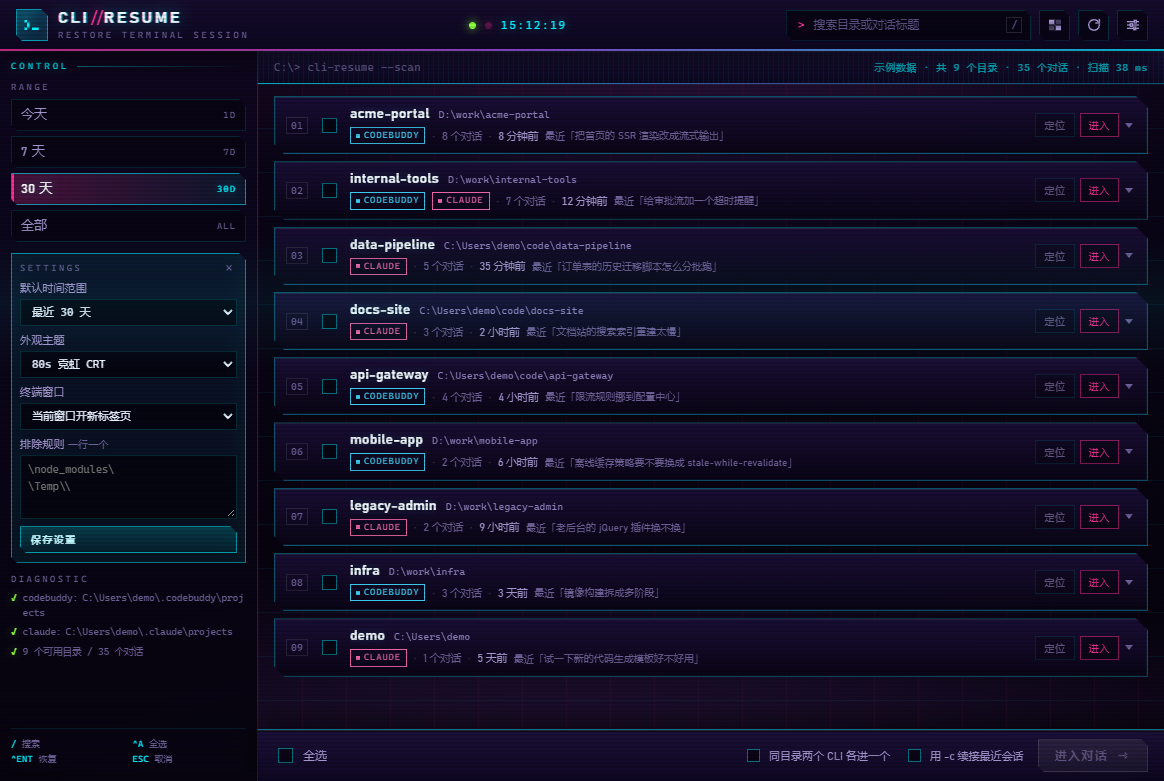
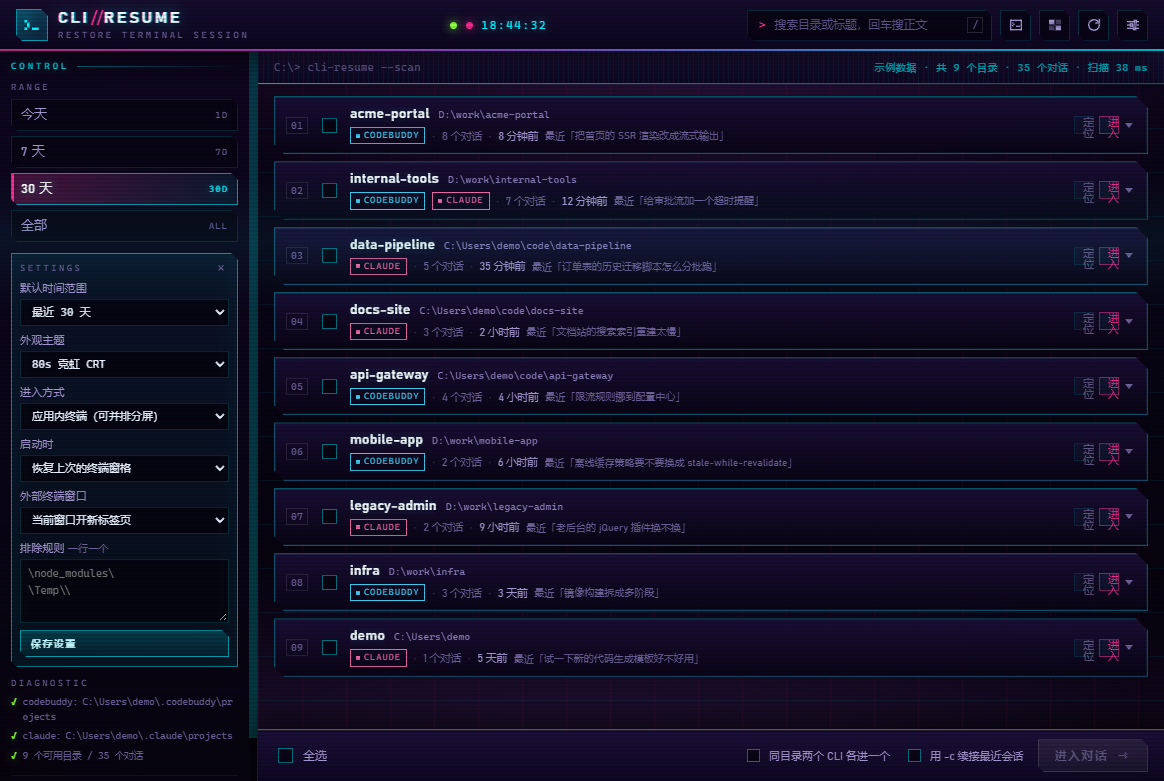
feat(desktop): 记住终端布局，下次启动原样铺回来并自动 --resume
开着的窗格、各自的目录、面板高度、当前标签，都存在 layout.json，
启动时照单铺开。这样「重启电脑后把现场拉回来」在桌面端才闭环 ——
之前只有 CLI 版能做到，桌面端每次都得重新点一遍。

存的是「怎么起来」而不是会话状态
- panes[i] = { cwd, cmd, title, tool, sessionId }，cmd 里已经编码了
  claude --resume xxx / codebuddy --resume xxx / 开了 useContinue 的裸 claude /
  手开的空 shell 四种情况，恢复逻辑不用分叉
- 端点：GET/POST /api/layout。单独一个文件，不塞 settings.json ——
  每开一个窗格就要写一次，和「用户点保存」才变的设置不是一回事

两个刻意的取舍
- 上次是收起状态就不恢复：掀起来只会得到几个看不见的 CLI 进程，
  用户既没看见也没法操作，白占内存
- 恢复期间不写盘（TM.restoring）：termAddPane 每加一个窗格都会触发保存，
  那时 panes 还不齐，写下去会把布局截断成「只剩一个」

其余
- 前端写盘 350ms 防抖，开/关窗格、切标签、拖完高度、收起/展开都会触发
- 高度按视口 70% 夹一下，换小屏不会把上面的列表挤没
- 左栏新增「启动时：恢复上次的终端窗格 / 不恢复」，默认开启，落在 settings.json
- 重截两套皮肤的设置面板图（多了一个下拉）

验证：两个 echo 窗格 → 杀掉重启 → 两个窗格连同输出、当前标签、高度都回来了；
真实 claude 会话 → 重启 → 终端里直接是那个会话的历史（不用点任何地方）；
visible=false 与 restoreLayout=false 两种情况下都确认不会拉起进程。

diff --git a/desktop/web/app.js b/desktop/web/app.js
@@ -24,6 +24,8 @@ const S = {
     useContinue: false,
     window: 0,
     theme: 'neon',
+    termMode: 'embedded',
+    restoreLayout: true,
     exclude: [],
   },
   stats: {},
@@ -144,6 +146,10 @@ function applySettings(s) {
   $('opt-cont').checked = !!S.settings.useContinue;
   $('set-range').value = String(S.settings.maxAgeHours);
   $('set-window').value = String(S.settings.window);
+  const tm = $('set-term');
+  if (tm) tm.value = S.settings.termMode === 'external' ? 'external' : 'embedded';
+  const rs = $('set-restore');
+  if (rs) rs.value = S.settings.restoreLayout === false ? '0' : '1';
   $('set-exclude').value = (S.settings.exclude || []).join('\n');
   syncRangeButtons();
   applyTheme(FORCED_SKIN || S.settings.theme);
@@ -736,7 +742,8 @@ $('set-save').addEventListener('click', async () => {
   const maxAgeHours = Number($('set-range').value);
   const win = Number($('set-window').value);
   const termMode = $('set-term') ? $('set-term').value : 'embedded';
-  await saveSettings({ exclude, maxAgeHours, window: win, termMode });
+  const restoreLayout = !$('set-restore') || $('set-restore').value !== '0';
+  await saveSettings({ exclude, maxAgeHours, window: win, termMode, restoreLayout });
   S.range = maxAgeHours;
   S.rangeTouched = true;
   syncRangeButtons();
@@ -786,7 +793,7 @@ const TERM_THEMES = {
   },
 };
 
-const TM = { panes: [], active: null };
+const TM = { panes: [], active: null, restoring: false, restored: false };
 
 function termSkin() {
   return S.settings.theme === 'win98' ? 'win98' : 'neon';
@@ -826,10 +833,89 @@ function termShow() {
   const d = $('termdock');
   d.hidden = false;
   d.classList.remove('collapsed');
+  termSaveLayout();
 }
 
 function termCollapse() {
   $('termdock').classList.add('collapsed');
+  termSaveLayout();
+}
+
+// ---------------- 布局记忆 ----------------
+// 存的是「怎么起来」：目录 + 启动命令，而命令里已经带着 --resume，
+// 所以下次启动铺回来还是那几个会话，不是几个空 shell。
+
+let layoutTimer = null;
+
+function termSnapshot() {
+  const dock = $('termdock');
+  return {
+    visible: !dock.hidden && !dock.classList.contains('collapsed'),
+    height: Math.round(dock.getBoundingClientRect().height) || 0,
+    active: Math.max(0, TM.panes.indexOf(TM.active)),
+    panes: TM.panes.map((p) => ({
+      cwd: p.cwd || '',
+      cmd: p.cmd || '',
+      title: p.title || '',
+      tool: p.tool || '',
+      sessionId: p.sessionId || '',
+    })),
+  };
+}
+
+function termSaveLayout() {
+  // 恢复过程中每次 termAddPane 都会写一次，那时 panes 还不齐，写下去会把布局截断
+  if (DEMO || TM.restoring) return;
+  clearTimeout(layoutTimer);
+  layoutTimer = setTimeout(() => {
+    fetch('/api/layout', {
+      method: 'POST',
+      headers: { 'Content-Type': 'application/json' },
+      body: JSON.stringify(termSnapshot()),
+    }).catch(() => {});
+  }, 350);
+}
+
+// 铺回上次的窗格。空布局什么都不做 —— 别让第一次打开的人凭空多出一块面板。
+async function termRestoreLayout() {
+  if (DEMO || TM.restored) return;
+  TM.restored = true;
+  if (S.settings.restoreLayout === false) return;
+
+  let lay = null;
+  try {
+    lay = await fetch('/api/layout').then((r) => r.json());
+  } catch (e) {
+    return;
+  }
+  const panes = lay && Array.isArray(lay.panes) ? lay.panes.slice(0, 4) : [];
+  if (!panes.length) return;
+  // 上次是收起状态就不恢复了：掀起来只会得到几个看不见的 CLI 进程，
+  // 用户既没看见也没法操作，白占内存
+  if (!lay.visible) return;
+
+  TM.restoring = true;
+  // 高度先定下来，窗格按最终尺寸开，省得开完再缩一次、ConPTY 白重排两遍。
+  // 上次是在大窗口里拖的 600px，这次窗口小了就按视口压回来，别把列表挤没
+  const dock = $('termdock');
+  const h = Math.min(Math.round(Number(lay.height) || 0), Math.round(window.innerHeight * 0.7));
+  if (h >= 120) dock.style.flexBasis = h + 'px';
+  for (const p of panes) {
+    await termAddPane({
+      cwd: p.cwd || '',
+      cmd: p.cmd || '',
+      title: p.title || 'shell',
+      tool: p.tool || '',
+      sessionId: p.sessionId || '',
+    });
+  }
+  const idx = Math.min(Math.max(0, Number(lay.active) || 0), TM.panes.length - 1);
+  if (TM.panes[idx]) {
+    TM.active = TM.panes[idx];
+    termLayout();
+  }
+  TM.restoring = false;
+  termSaveLayout();
 }
 
 // 1 个占满、2 个并排、3~4 个两行两列 —— 就是「分窗口并行看」
@@ -925,6 +1011,7 @@ async function termAddPane(opt = {}) {
   const pane = {
     id: '', term, fit, el, ws: null,
     title: opt.title || 'terminal', cwd: opt.cwd || '', cmd: opt.cmd || '',
+    tool: opt.tool || '', sessionId: opt.sessionId || '',
     cols: 0, rows: 0, ro: null,
   };
   TM.panes.push(pane);
@@ -984,6 +1071,7 @@ async function termAddPane(opt = {}) {
     plog('term open fail ' + e.message);
   }
   termRenderTabs();
+  termSaveLayout();
   return pane;
 }
 
@@ -1008,6 +1096,7 @@ function termClosePane(pane) {
   TM.active = TM.panes[Math.min(i, TM.panes.length - 1)] || null;
   termLayout();
   if (!TM.panes.length) termCollapse();
+  termSaveLayout();
 }
 
 function termCmdFor(it) {
@@ -1018,7 +1107,10 @@ function termCmdFor(it) {
 
 async function termOpenItems(items) {
   for (const it of items) {
-    await termAddPane({ cwd: it.cwd, cmd: termCmdFor(it), title: it.title || it.cwd });
+    await termAddPane({
+      cwd: it.cwd, cmd: termCmdFor(it), title: it.title || it.cwd,
+      tool: it.tool, sessionId: it.sessionId,
+    });
   }
 }
 
@@ -1048,6 +1140,7 @@ $('term-tabs').addEventListener('click', (e) => {
   TM.active = p;
   termLayout();
   p.term.focus();
+  termSaveLayout();
 });
 
 // 拖顶边改高度
@@ -1064,6 +1157,7 @@ $('term-drag').addEventListener('mousedown', (e) => {
   const up = () => {
     document.removeEventListener('mousemove', move);
     document.removeEventListener('mouseup', up);
+    termSaveLayout();
   };
   document.addEventListener('mousemove', move);
   document.addEventListener('mouseup', up);
@@ -1116,5 +1210,5 @@ function tickClock() {
 tickClock();
 setInterval(tickClock, 1000);
 
-// 启动
-load(false);
+// 启动：先扫目录，再按上次的布局把终端铺回来（示例模式不恢复）
+load(false).then(() => termRestoreLayout());

diff --git a/desktop/web/index.html b/desktop/web/index.html
@@ -122,6 +122,13 @@
           </select>
         </div>
         <div class="field">
+          <label>启动时</label>
+          <select id="set-restore">
+            <option value="1">恢复上次的终端窗格</option>
+            <option value="0">不恢复，只开空界面</option>
+          </select>
+        </div>
+        <div class="field">
           <label>外部终端窗口</label>
           <select id="set-window">
             <option value="0">当前窗口开新标签页</option>

diff --git a/desktop/src/backend.cpp b/desktop/src/backend.cpp
@@ -42,6 +42,7 @@ json defaultSettings() {
       {"window", 0},
       {"theme", "neon"},  // "neon"（80s CRT）| "win98"
       {"termMode", "embedded"},  // "embedded"（应用内终端）| "external"（Windows Terminal）
+      {"restoreLayout", true},   // 启动时按上次的窗格铺开并自动 --resume
       {"exclude", json::array({"\\temp\\", "\\system32", "\\node_modules\\", "\\appdata\\local\\temp"})},
   };
 }
@@ -53,6 +54,7 @@ Backend::Backend(std::string webRoot) : webRoot_(std::move(webRoot)) {
   std::string base = la && *la ? std::string(la) : (homeDir() + "\\AppData\\Local");
   dataDir_ = base + "\\CliResumeGui";
   settingsPath_ = dataDir_ + "\\settings.json";
+  layoutPath_ = dataDir_ + "\\layout.json";
   CreateDirectoryA(dataDir_.c_str(), nullptr);
 }
 
@@ -81,6 +83,28 @@ void Backend::saveSettings(const json& s) const {
   std::ofstream f(utf8ToWide(settingsPath_), std::ios::binary | std::ios::trunc);
   if (!f) return;
   f << dumpJson(s);
+}
+
+// 布局文件坏了就当没有：界面照常起来，只是不恢复窗格。
+// 这里不做字段校验，panes 里放什么由前端解释，后端只负责搬运。
+json Backend::loadLayout() const {
+  json def = json{{"visible", false}, {"height", 0}, {"active", 0}, {"panes", json::array()}};
+  std::string raw;
+  if (!readWholeFile(layoutPath_, raw) || raw.empty()) return def;
+  try {
+    json j = json::parse(raw);
+    if (!j.is_object()) return def;
+    if (!j.contains("panes") || !j["panes"].is_array()) return def;
+    return j;
+  } catch (...) {
+    return def;
+  }
+}
+
+void Backend::saveLayout(const json& l) const {
+  std::ofstream f(utf8ToWide(layoutPath_), std::ios::binary | std::ios::trunc);
+  if (!f) return;
+  f << dumpJson(l);
 }
 
 // 宿主在创建窗口时就要知道底色，否则深色主题启动会闪一块浅色
@@ -285,6 +309,31 @@ void Backend::setupRoutes() {
   srv_.Post("/api/log", [](const httplib::Request& req, httplib::Response& res) {
     logf("[page] " + req.body.substr(0, 400));
     res.set_content("{}", "application/json; charset=utf-8");
+  });
+
+  // ---------------- 终端布局 ----------------
+  // 前端每开/关一个窗格、拖完高度就 POST 一次（自带 350ms 防抖），
+  // 下次启动读回来，原样铺开。存的是「怎么起来」而不是会话状态：
+  // cmd 里已经带着 --resume，重启后还是那个会话。
+  srv_.Get("/api/layout", [this](const httplib::Request&, httplib::Response& res) {
+    res.set_header("Cache-Control", "no-store");
+    res.set_content(dumpJson(loadLayout()), "application/json; charset=utf-8");
+  });
+
+  srv_.Post("/api/layout", [this](const httplib::Request& req, httplib::Response& res) {
+    json out = {{"ok", false}};
+    try {
+      json body = json::parse(req.body);
+      if (!body.is_object() || !body.contains("panes") || !body["panes"].is_array()) {
+        out["error"] = "布局格式不对：需要 panes 数组";
+      } else {
+        saveLayout(body);
+        out = {{"ok", true}, {"panes", body["panes"].size()}};
+      }
+    } catch (const std::exception& e) {
+      out["error"] = e.what();
+    }
+    res.set_content(dumpJson(out), "application/json; charset=utf-8");
   });
 
   // ---------------- 内嵌终端 ----------------

diff --git a/desktop/src/backend.h b/desktop/src/backend.h
@@ -25,11 +25,16 @@ class Backend {
   json scanCached(int maxAgeHours, bool force);
   json loadSettings() const;
   void saveSettings(const json& s) const;
+  // 终端布局（开着哪几个窗格、各自在哪个目录、面板多高）单独存一个文件：
+  // 它每开一个窗格就写一次，和「用户点保存」才变的设置不是一回事
+  json loadLayout() const;
+  void saveLayout(const json& l) const;
   bool handleStatic(const std::string& path, httplib::Response& res);
 
   httplib::Server srv_;
   std::string webRoot_;
   std::string settingsPath_;
+  std::string layoutPath_;
   std::string dataDir_;
   int port_ = 0;
   TermManager terms_;

diff --git a/README.md b/README.md
@@ -82,6 +82,8 @@ codebuddy / claude 的颜色、光标、按键、TUI 布局和在终端窗口里
 - **入口**：顶栏终端图标随手开一个空 shell；左栏「进入方式」决定「进入」是内嵌还是弹外部终端
 - **回收**：关掉窗格或退出应用，ConPTY 会话连同里面的 node 进程一起结束（子进程挂在 job 上，
   应用被强杀也不留孤儿）
+- **恢复现场**：开着哪几个窗格、各自在哪个目录、面板多高都记在 `layout.json`，下次启动原样铺回来。
+  存的是「怎么起来」——启动命令里带着 `--resume`，所以恢复的还是原来那几个会话，不是几个空 shell
 
 <img src="desktop/docs/term.png" width="49%" alt="霓虹：两个终端并排">
 <img src="desktop/docs/w98-term.png" width="49%" alt="98：两个终端并排">
